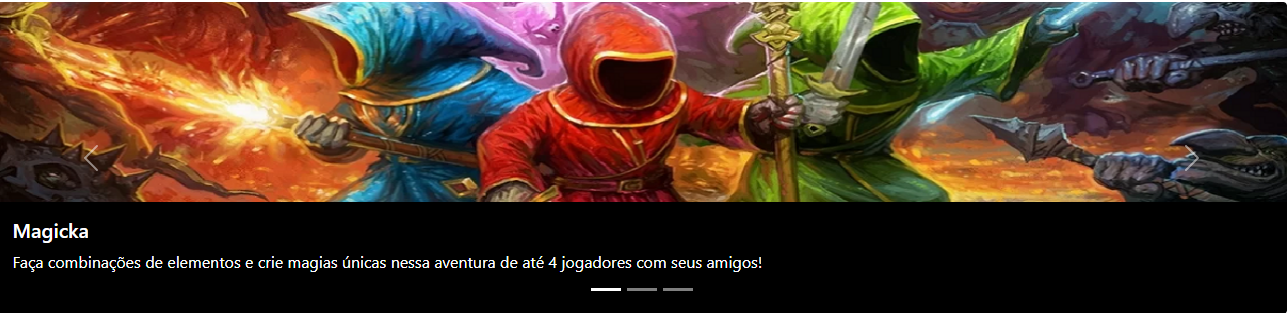
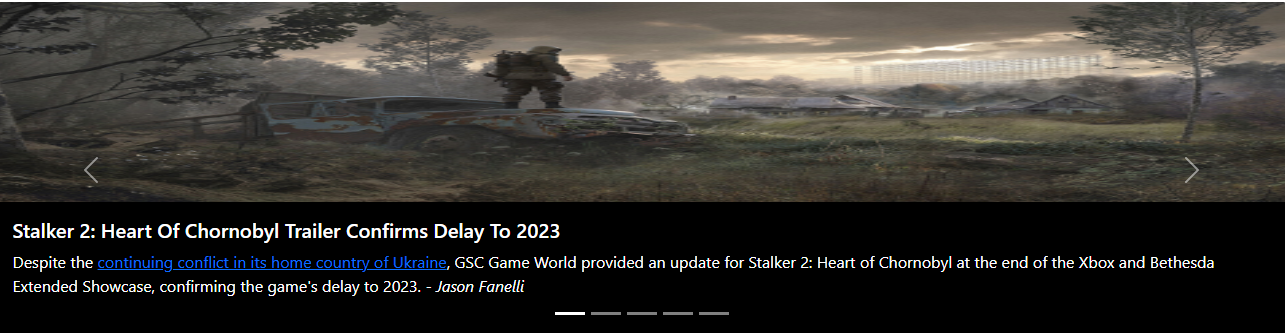
início da documentação

diff --git a/docs/development.md b/docs/development.md
@@ -4,7 +4,7 @@ Nesta seção estão descritos os artefatos e estruturas de dados criados para a
 
 ## Página Inicial
 
-Aqui onde nosso site se inicia, uma tela repleta de funções que faz ligação com as demais do site. No início da página será disponibilizado um carrossel dos jogos mais buscados no site.
+Aqui onde nosso site se inicia, uma tela repleta de funções que faz ligação com as demais do site. No início da página será disponibilizado um carrossel das principais notícias no mundo dos jogos
 
 ![carrosel](img/entrega03/carrossel.JPG)
 
@@ -85,8 +85,11 @@ Ao clicar em fazer login, disponível no menu da página inicial, irá carregar 
 
 ![login](img/entrega03/login.JPG)
 
-Será exibido dois campos, Nome/Nickname e Password respectivamente para o usuário entrar com um cadastro já realizado no site, se não possuir cadastro haverá um botão que levará até a tela de Cadastro.
+Será exibido dois títulos, Nome/Nickname e Password do tipo `label` respectivamente, logo em seguida mais dois campos do tipo `imput` para receber os valores que o usuário digitar para fazer login no site. Os botões que são do tipo `button` com personalização do boostrap com a classe `btn-primary` são para cadastrar um usuário caso não possua acesso ao site e o outro para enviar a requisição do usuário que irá logar no site. Os dados são registrados no localStorage do navegador de acordo com a estrutura de dados presente em `src/js/login.js`.
 
+Em caso de erro ao autenticar o login será exibido um model informando que os dados estão errados.
+
+![modal-erro-login](img/entrega03/model-erro.JPG)
 <br/>
 
 ## Cadastro
@@ -97,11 +100,21 @@ Será exibido dois campos, Nome/Nickname e Password respectivamente para o usuá
 
 Para atender ao requisito RF-005 foi desenvolvido a página de Cadastro.
 
-Será disponibilizado ao usuário um formulário onde ele poderá cadastrar suas informações como Nome/Nickname e senha para criar um usuário no site e fazer login futuramente. Estes usuários cadastrados são registrados no localStorage do navegador de acordo com a estrutura de dados presente em `src/js/cadastro.js`.
+Será disponibilizado ao usuário um formulário composto por `label`, `imput` e um `button` onde ele poderá cadastrar suas informações como Nome/Nickname e senha para criar um usuário no site e fazer login futuramente. Estes usuários cadastrados são registrados no localStorage do navegador de acordo com a estrutura de dados presente em `src/js/cadastro.js`.
 
 ![cadastro](img/entrega03/cadastro.JPG)
 
-Após inserir seus dados, para confirmar cadastro no Pra Jogar Juntinho basta clicar no botão "Cadastrar", então os dados informados são armazenados em um arquivo JSON `src/db/usuarios.json`. Pronto você será redirecionado para a tela inicial e agora você consegue comentar e favoritar seus jogos preferidos para poder jogar mais tarde com seus amigos. 
+Após inserir seus dados, para confirmar cadastro no Pra Jogar Juntinho basta clicar no botão "Cadastrar", então os dados informados são armazenados em um arquivo JSON `src/db/usuarios.json`. Pronto você será redirecionado para a tela inicial e agora você consegue comentar e favoritar seus jogos preferidos para poder jogar mais tarde com seus amigos. A estrutura de dados utilizada é JSON, conforme exemplo a seguir:
+
+```
+   "usuarios": [
+    {
+      "id": 1,
+      "nome": "Lucas",
+      "senha": "Brasil1010",
+      "avatar": "cody"
+    },
+```
 
 <br/>
 
@@ -137,3 +150,4 @@ Ao clicar no botão onde estiver escrito seu Nome/NickName no menu disponivel ap
 Nela o usuário podera visualizar a lista de jogos favoritadas e comentados, além de poder editar informações como o ícone de perfil, nome/nickname e senha.
 
 <br/>
+````
